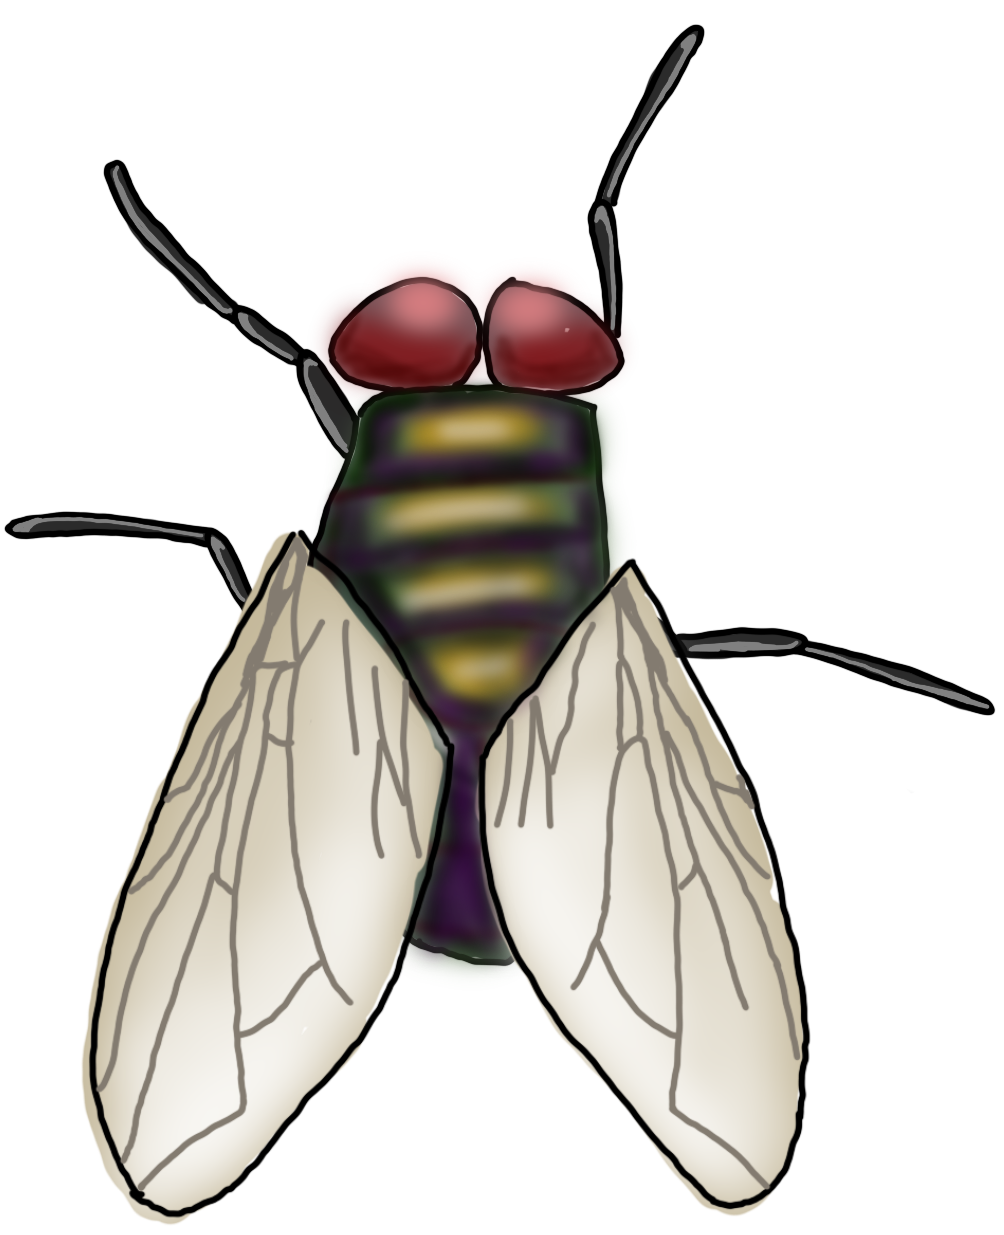
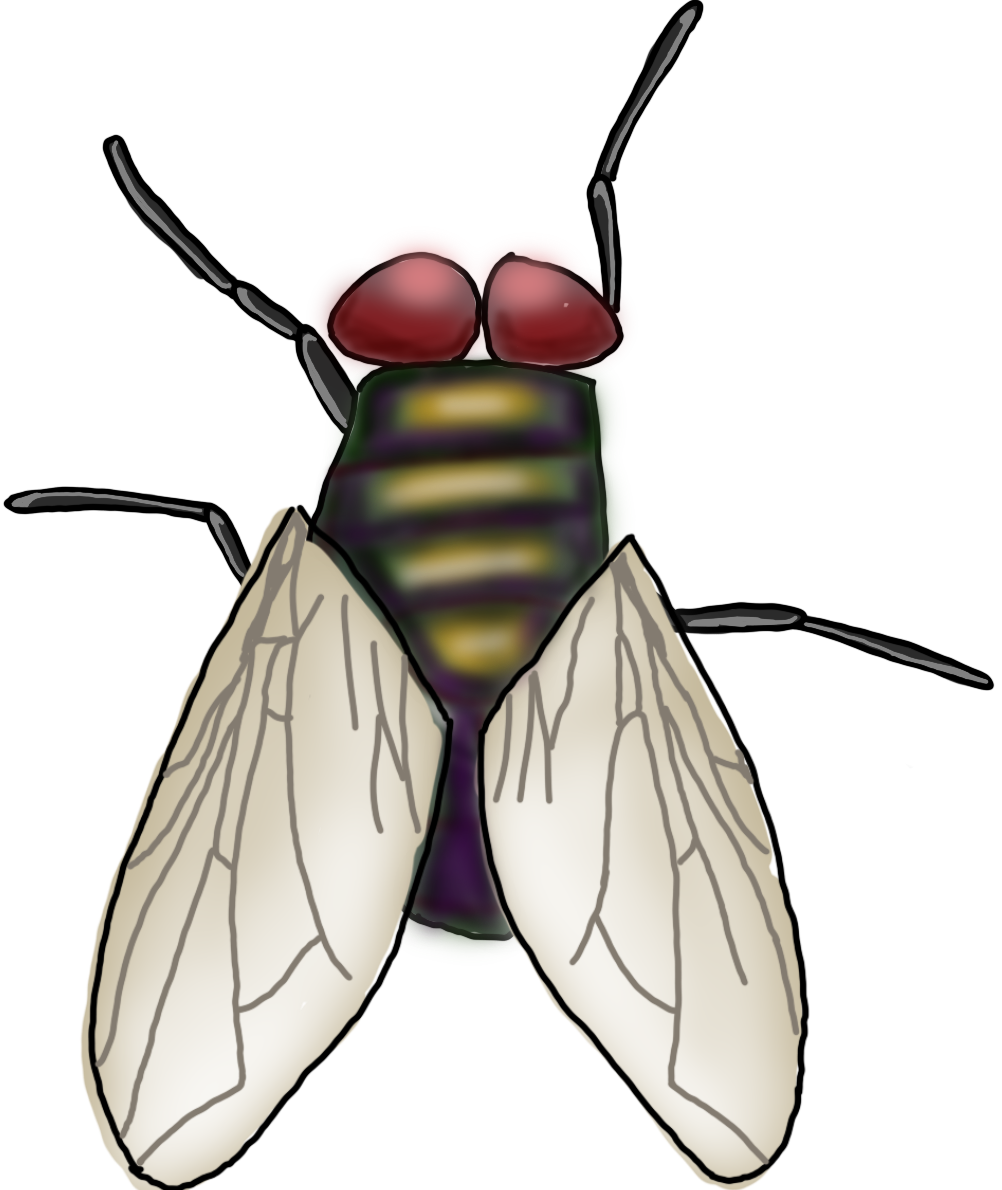
final pre-project presentation sprite push, tons of other fixes

diff --git a/js/weapons.js b/js/weapons.js
@@ -28,10 +28,24 @@ class BaseWeapon {
     this.description = description;
 
     this.lastAttackTime = 0;
+
+    this.tempDamageBonus = 0;          // additive bonus from powerups
+    this.tempCooldownMultiplier = 1;   // multiplicative cooldown factor (e.g. 0.5 = 50%)
+  }
+
+  // Effective damage = base + temporary bonus
+  getEffectiveDamage() {
+    return this.damage + (this.tempDamageBonus || 0);
+  }
+
+  // Effective cooldown = base * multiplier (with floor)
+  getEffectiveCooldownMs() {
+    const mult = (this.tempCooldownMultiplier == null ? 1 : this.tempCooldownMultiplier);
+    return Math.max(50, Math.round(this.cooldownMs * mult));
   }
 
   canAttack(now = performance.now()) {
-    return now - this.lastAttackTime >= this.cooldownMs;
+    return now - this.lastAttackTime >= this.getEffectiveCooldownMs();
   }
 
   tryAttack(hitX, hitY, bugs, now = performance.now()) {
@@ -68,7 +82,8 @@ class BaseWeapon {
 
       if (distSq <= this.hitRadius * this.hitRadius) {
         const wasAlive = !bug.isDead;
-        bug.takeDamage(this.damage);
+        const dmg = this.getEffectiveDamage();
+        bug.takeDamage(dmg);
 
         if (wasAlive && bug.isDead) {
           bugsKilled += 1;
@@ -113,7 +128,67 @@ class HammerWeapon extends BaseWeapon {
       cursorOffsetX: -15,
       cursorOffsetY: -10,
       cooldownMs: 1400, // slower but stronger
-      description: "A heavy hammer for heavy duty DeBugging. Slow, but reliable, and offering an additional +30% per Upgrade RAD."
+      description: "A heavy hammer for heavy duty DeBugging. Slow, but reliable, and offering an additional +30% RAD per Upgrade."
     });
+  }
+}
+
+// Zapper (Ranged weapon)
+// - damage: per-bolt damage
+// - hitRadius: max travel distance of a bolt
+// - cooldownMs: fire rate
+class BugZapperWeapon extends BaseWeapon {
+  constructor() {
+    super({
+      name: "Bug Zapper",
+      damage: 10,         
+      hitRadius: 260,     // how far bolts can travel
+      cursorSprite: "../IMG/menu/crosshair.png", // or reuse your swatter, or a +/- marker
+      cursorWidth: 32,
+      cursorHeight: 32,
+      cursorOffsetX: -16,
+      cursorOffsetY: -16,
+      cooldownMs: 450,    // fire rate
+      description: ""
+    });
+
+    // flag for ranged vs melee
+    this.isRanged = true;
+  }
+
+  // For ranged weapons, we "attack" by spawning a projectile instead of doing a radius check.
+  attack(targetX, targetY, bugs) {
+    // We don't do area melee hits here.
+    // Instead, Fire a LightningBoltProjectile from bottom-center of play area toward (targetX, targetY).
+    const playArea = document.getElementById("play-area");
+    if (!playArea) {
+      return { moneyGained: 0, bugsKilled: 0, killedBugCenters: [] };
+    }
+
+    // Spawn from the Bug Zapper base position at bottom center
+    const rect = playArea.getBoundingClientRect();
+    const startX = rect.width / 2;
+    const startY = rect.height; // bottom
+
+    // Lightning bolt range is based on hitRadius
+    const maxDistance = this.hitRadius;
+    const damage = this.getEffectiveDamage();
+
+    if (typeof LightningBoltProjectile === "function") {
+      new LightningBoltProjectile(playArea, startX, startY, targetX, targetY, {
+        maxDistance,
+        damage,
+        chainChance: 0.22,    // 22% chance to chain; tweak
+        maxChains: 3,         // max jumps after first hit
+        chainRadius: 220      // how far it can look for a new bug to jump to
+      });
+    }
+
+    // Let the game know we "attacked" even though we don't kill immediately.
+    return {
+      moneyGained: 0,
+      bugsKilled: 0,
+      killedBugCenters: []
+    };
   }
 }

diff --git a/js/powerups.js b/js/powerups.js
@@ -46,21 +46,30 @@ class DecreaseWCDPowerup extends BasePowerup {
   static sprite = "../IMG/powerups/decrease_wcd.png";
 
   constructor(targetWeapon) {
-    let originalCooldown;
+    let previousMultiplier;
 
     super({
       name: "Decrease WCD",
-      durationMs: 8000, // 8 seconds, tweak as needed
+      durationMs: 8000, // 8 seconds
       powerupSprite: DecreaseWCDPowerup.sprite,
       onApply: () => {
         if (!targetWeapon) return;
-        originalCooldown = targetWeapon.cooldownMs;
-        // Half the cooldown, but don't go below 50ms
-        targetWeapon.cooldownMs = Math.max(50, Math.round(targetWeapon.cooldownMs * 0.5));
+
+        // Ensure temp multiplier exists
+        if (typeof targetWeapon.tempCooldownMultiplier !== "number") {
+          targetWeapon.tempCooldownMultiplier = 1;
+        }
+
+        // Save previous
+        previousMultiplier = targetWeapon.tempCooldownMultiplier;
+
+        // Half the effective cooldown (stacking-safe)
+        targetWeapon.tempCooldownMultiplier = targetWeapon.tempCooldownMultiplier * 0.5;
       },
       onExpire: () => {
-        if (!targetWeapon || originalCooldown == null) return;
-        targetWeapon.cooldownMs = originalCooldown;
+        if (!targetWeapon) return;
+        // Restore previous temp multiplier
+        targetWeapon.tempCooldownMultiplier = previousMultiplier ?? 1;
       }
     });
   }
@@ -74,7 +83,7 @@ class IncreaseAttackPowerup extends BasePowerup {
   static sprite = "../IMG/powerups/increase_attack.png";
 
   constructor(targetWeapon) {
-    let originalDamage;
+    let previousBonus;
 
     super({
       name: "Increase Attack",
@@ -82,13 +91,22 @@ class IncreaseAttackPowerup extends BasePowerup {
       powerupSprite: IncreaseAttackPowerup.sprite,
       onApply: () => {
         if (!targetWeapon) return;
-        originalDamage = targetWeapon.damage;
-        // Example: +3 flat damage, you can change this to *1.5 if you prefer
-        targetWeapon.damage = originalDamage + 3;
+
+        // Ensure temp bonus exists
+        if (typeof targetWeapon.tempDamageBonus !== "number") {
+          targetWeapon.tempDamageBonus = 0;
+        }
+
+        // Save previous bonus
+        previousBonus = targetWeapon.tempDamageBonus;
+
+        // Add a flat +3 temporary damage
+        targetWeapon.tempDamageBonus = targetWeapon.tempDamageBonus + 3;
       },
       onExpire: () => {
-        if (!targetWeapon || originalDamage == null) return;
-        targetWeapon.damage = originalDamage;
+        if (!targetWeapon) return;
+        // Restore previous temp bonus
+        targetWeapon.tempDamageBonus = previousBonus ?? 0;
       }
     });
   }

diff --git a/html/index.html b/html/index.html
@@ -24,7 +24,7 @@
         </button>
         <!--<button id="btn-journal">
           <img src="../IMG/menu/Journal.png" alt="Journal">
-        </button> (add back later) -->
+        </button> -->
         <button id="btn-options" class="title-button">
           <img src="../IMG/menu/Options.png" alt="Options">
         </button>
@@ -77,6 +77,10 @@
           <img src="../IMG/weapons/hammer/hammer.png" alt="" class="weapon-icon">
         </button>
 
+        <button id="equip-bugzapper" class="weapon-button">
+          <img src="../IMG/weapons/zapper/zapper.png" alt="" class="weapon-icon">
+        </button>
+
         <!-- More weapon buttons can be added here -->
 
         <!-- Weapon Stats Pop-Up -->
@@ -94,6 +98,10 @@
               <div id="bug-meter-fill"></div>
             </div>
           </div>
+
+          <!-- Ranged weapon anchor -->
+          <img id="bugzapper-base" src="../IMG/weapons/zapper/zapper.png" alt="Bug Zapper">
+
 
           <!-- Swatter cursor -->
           <img id="swatter-cursor" src="../IMG/swatter.png" alt="Swatter">
@@ -364,7 +372,7 @@
         </button>
         <!--<button id="btn-pause-journal" class="overlay-button">
           <img src="../IMG/menu/Journal.png" alt="" class="overlay-button-img">
-        </button>-->
+        </button> -->
         <button id="btn-quit" class="overlay-button">
           <img src="../IMG/menu/Quit.png" alt="Quit" class="overlay-button-img">
         </button>

diff --git a/css/style.css b/css/style.css
@@ -460,6 +460,17 @@ html, body {
   transform: rotate(-30deg);
 }
 
+#bugzapper-base {
+  position: absolute;
+  bottom: 0;                 /* anchored to bottom of play area */
+  left: 50%;                 /* centered horizontally */
+  transform: translate(-50%, 0) rotate(0deg);
+  transform-origin: 50% 80%; /* pivot around near-bottom-center */
+  pointer-events: none;
+  display: none;             /* hidden until Bug Zapper is equipped */
+  z-index: 8;                /* below cursor/projectiles, above background */
+}
+
 /* Sidebar for upgrades */
 #upgrade-panel {
   background: #181818;

diff --git a/js/game.js b/js/game.js
@@ -725,7 +725,6 @@ upgradeButtons.forEach((btn) => {
   btn.addEventListener("click", () => {
     const id = btn.dataset.upgradeId;
     handleUpgradeClick(id, btn);
-    console.log('Current bug meter max:' + bugMeterMax);
   });
 });
 
@@ -1191,6 +1190,11 @@ function handleSwatAt(hitX, hitY) {
 
   if (!didAttack) {
     return;
+  }
+
+  // Spawn melee-hit projectile centered on the hit
+  if (typeof MeleeHitProjectile === "function") {
+    new MeleeHitProjectile(playArea, hitX, hitY, currentWeapon.hitRadius);
   }
 
   // Swat animation

diff --git a/js/bugs.js b/js/bugs.js
@@ -288,6 +288,7 @@ class FlyBug extends BaseBug {
 
       walkFrames: [
         "../IMG/bugs/fly/flyBase.png",
+        "../IMG/bugs/fly/flyOut.png"
       ],
 
       deathFrame: "../IMG/bugs/fly/flyDead.png",
